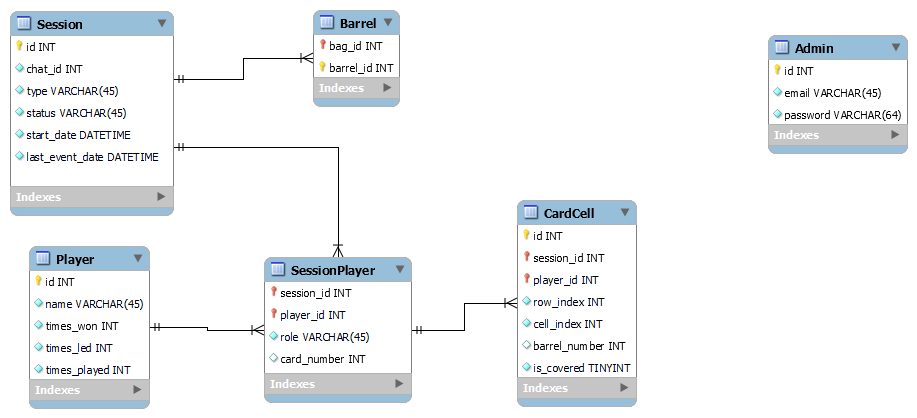
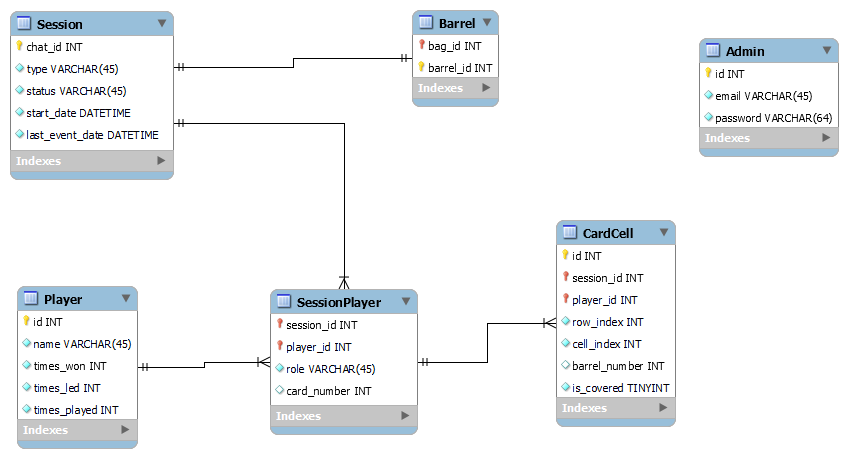
Lil change in DB; added get_chat_user in vk_api, accessor (can start session, create user and add lead)

diff --git a/app/store/russian_loto/accessor.py b/app/store/russian_loto/accessor.py
@@ -1,0 +1,95 @@
+from datetime import datetime
+from typing import Optional, TYPE_CHECKING
+
+from sqlalchemy import select, literal_column, ChunkedIteratorResult
+from sqlalchemy.dialects.mysql import insert
+from sqlalchemy.exc import IntegrityError
+from sqlalchemy.sql.functions import func
+
+from app.russian_loto.models import *
+from app.base.base_accessor import BaseAccessor
+
+if TYPE_CHECKING:
+    from app.web.app import Application
+
+
+# TODO: test this
+class RussianLotoAccessor(BaseAccessor):
+    async def create_new_session(self, chat_id: int, game_type: str) -> (Optional[int], str):
+        start_date = datetime.now()
+        type_ = "short" if game_type == "2" else "simple"
+        query_add_session = insert(GameSessionModel).values(
+            chat_id=chat_id, type=type_, status="started", start_date=start_date, last_event_date=start_date
+        )
+
+        async with self.app.database.session() as add_session:
+            try:
+                await add_session.execute(query_add_session)
+                await add_session.commit()
+                session_id = chat_id
+                msg = "Игра начата! Чтобы участвовать, отправьте \"+\"."
+            except IntegrityError as e:
+                session_id = None
+                msg = "Игра уже была начата. Чтобы начать новую игру, необходимо завершить текущую."
+                self.logger.exception(msg, exc_info=e)
+                await add_session.rollback()
+        return session_id, msg
+
+    async def create_player_profile(self, chat_id: int, player_id: int):
+        player_data = await self.app.store.vk_api.get_chat_user(chat_id, player_id)
+        query_add_player = insert(PlayerModel).values(
+            id=player_data["id"], name=" ".join([player_data["first_name"], player_data["last_name"]]),
+            times_won=0, times_led=0, times_played=0
+        )
+
+        async with self.app.database.session() as add_session:
+            await add_session.execute(query_add_player)
+            await add_session.commit()
+
+    async def add_lead_to_session(self, session_id: int, player_id: int):
+        role = "lead"
+        card_number = None
+        query_add_lead = insert(SessionPlayerModel).values(
+            session_id=session_id, player_id=player_id, role=role, card_number=card_number
+        )
+
+        async with self.app.database.session() as add_session:
+            try:
+                await add_session.execute(query_add_lead)
+                await add_session.commit()
+                return
+            except IntegrityError as e:
+                self.logger.exception("Creating new player", exc_info=e)
+                await add_session.rollback()
+
+        await self.create_player_profile(session_id, player_id)
+        async with self.app.database.session() as new_add_session:
+            await new_add_session.execute(query_add_lead)
+            await new_add_session.commit()
+
+    # insert into sessionplayer values ( 224, 123, "lead", null);
+    # insert into sessionplayer values ( 224, 123, "player", card_number) on duplicate key
+    # update role = if(role = "lead", "leadplayer", sessionplayer.role);
+    async def add_player_to_session(self, session_id: int, player_id: int, card_number: int):
+        role = "player"
+        query_add_player = insert(SessionPlayerModel).values(
+            session_id=session_id, player_id=player_id, role=role, card_number=card_number
+        ).on_duplicate_key_update(role=func.IF(
+            SessionPlayerModel.role == "lead", "leadplayer", SessionPlayerModel.role
+        ))
+
+        async with self.app.database.session() as add_session:
+            try:
+                await add_session.execute(query_add_player)
+                await add_session.commit()
+            except IntegrityError as e:
+                self.logger.exception("Creating new player", exc_info=e)
+                await self.create_player_profile(session_id, player_id)
+                await add_session.execute(query_add_player)
+                await add_session.commit()
+
+    async def get_random_free_card(self, chat_id):
+        pass
+
+    async def get_session_by_chat_id(self, chat_id):
+        pass

diff --git a/app/store/bot/manager.py b/app/store/bot/manager.py
@@ -26,15 +26,16 @@ class BotManager:
                     pass
 
     async def handle_new_message(self, update: Update):
-        greetings = int(not(re.fullmatch(f" *{self.BOT_MENTION}? *Привет! *", update.object.body) is None))
+        greetings = int(not(re.fullmatch(f"({self.BOT_MENTION} )?Привет! *", update.object.body) is None))
         start_loto = int(not(
-            re.fullmatch(f" *{self.BOT_MENTION}? *(начать) *(лото) *(!)? *", update.object.body.lower()) is None
+            re.fullmatch(f"({self.BOT_MENTION} )?(начать) (лото)( [1|2])? *(!)? *", update.object.body.lower()) is None
         )) << 1
         join_loto = int(not(re.fullmatch(f" *\+ *", update.object.body) is None)) << 2
         stop_loto = int(not(
-            re.fullmatch(f" *{self.BOT_MENTION}? *(стоп) *(лото) *(!)? *", update.object.body.lower()) is None
+            re.fullmatch(f"({self.BOT_MENTION} )?(стоп) (лото) *(!)? *", update.object.body.lower()) is None
         )) << 3
         command_flags = stop_loto | join_loto | start_loto | greetings
+        print(command_flags)
 
         match command_flags:
             case Commands.greetings.value:
@@ -42,7 +43,10 @@ class BotManager:
                     Message(user_id=update.object.user_id, text="Привет!"), update.object.peer_id
                 )
             case Commands.start_loto.value:
-                pass
+                lead_id = update.object.user_id
+                peer_id = update.object.peer_id
+                game_type = re.sub("\D", "", update.object.body)
+                await self.russian_loto.start_session(lead_id, peer_id, game_type)
             case Commands.join_loto.value:
                 pass
             case Commands.stop_loto.value:
@@ -55,46 +59,24 @@ class RussianLoto:
     def __init__(self, app: "Application"):
         self.app = app
         self.logger = getLogger("Russian Loto")
-        self.fsm_state = FSMState.started
 
-    async def fsm_transition(self):
-        match self.fsm_state:
-            case FSMState.started:
-                pass
-            case FSMState.adding_players:
-                pass
-            case FSMState.dealing_cards:
-                pass
-            case FSMState.filling_bag:
-                pass
-            case FSMState.handling_moves:
-                pass
-            case FSMState.closed:
-                pass
+    async def start_session(self, lead_id, peer_id, game_type):
+        session_id, response = await self.app.store.loto_games.create_new_session(peer_id, game_type)
+        print(session_id)
+        print(response)
+        await self.app.store.loto_games.add_lead_to_session(session_id, lead_id)
 
-    async def _start_session(self):
+    async def add_players(self):
         pass
 
-    async def _add_players(self):
+    async def fill_bag(self):
         pass
 
-    async def _fill_bag(self):
+    async def lead_move(self):
         pass
 
-    async def _lead_move(self):
+    async def close_session(self):
         pass
-
-    async def _close_session(self):
-        pass
-
-
-class FSMState(enum.Enum):
-    started = 0
-    adding_players = 1
-    dealing_cards = 2
-    filling_bag = 3
-    handling_moves = 4
-    closed = 5
 
 
 class Commands(enum.Enum):
@@ -102,4 +84,3 @@ class Commands(enum.Enum):
     start_loto = 0b0010
     join_loto = 0b0100
     stop_loto = 0b1000
-

diff --git a/app/russian_loto/models.py b/app/russian_loto/models.py
@@ -16,7 +16,6 @@ from sqlalchemy.orm import relationship
 
 @dataclass
 class GameSession:
-    id: int
     chat_id: int
     start_date: datetime
     last_event_date: datetime
@@ -60,8 +59,7 @@ class CardCell:
 
 class GameSessionModel(db):
     __tablename__ = "Session"
-    id = Column(Integer, primary_key=True, autoincrement=True)
-    chat_id = Column(Integer, nullable=False, unique=True)
+    chat_id = Column(Integer, primary_key=True)
     type = Column(VARCHAR(45), nullable=False, default="simple")
     status = Column(VARCHAR(45), nullable=False, default="started")
     start_date = Column(DATETIME, nullable=False)
@@ -70,8 +68,8 @@ class GameSessionModel(db):
     session_player = relationship("SessionPlayerModel")
 
     def __repr__(self) -> str:
-        return f"<GameSessionModel(id='{self.id}', chat_id='{self.chat_id}', type='{self.type}', " \
-               f"status='{self.status}', start_date='{self.start_date}', last_event_date='{self.last_event_date}')>"
+        return f"<GameSessionModel(chat_id='{self.chat_id}', type='{self.type}', status='{self.status}', " \
+               f"start_date='{self.start_date}', last_event_date='{self.last_event_date}')>"
 
 
 class PlayerModel(db):
@@ -90,7 +88,7 @@ class PlayerModel(db):
 
 class BarrelModel(db):
     __tablename__ = "Barrel"
-    bag_id = Column(Integer, ForeignKey("Session.id", ondelete="CASCADE"), primary_key=True)
+    bag_id = Column(Integer, ForeignKey("Session.chat_id", ondelete="CASCADE"), primary_key=True)
     barrel_id = Column(Integer, primary_key=True)
 
     def __repr__(self) -> str:
@@ -99,7 +97,7 @@ class BarrelModel(db):
 
 class SessionPlayerModel(db):
     __tablename__ = "SessionPlayer"
-    session_id = Column(Integer, ForeignKey("Session.id", ondelete="CASCADE"), primary_key=True)
+    session_id = Column(Integer, ForeignKey("Session.chat_id", ondelete="CASCADE"), primary_key=True)
     player_id = Column(Integer, ForeignKey("Player.id", ondelete="CASCADE"), primary_key=True)
     role = Column(VARCHAR(45), nullable=False, default="lead")
     card_number = Column(Integer, nullable=True)

diff --git a/alembic/versions/5440d471787c_create_admin_and_russian_loto_tables.py b/alembic/versions/5440d471787c_create_admin_and_russian_loto_tables.py
@@ -1,8 +1,8 @@
-"""Added admin table and tables for Russian Loto
+"""Create admin and Russian Loto tables
 
-Revision ID: 25bdd9acb548
+Revision ID: 5440d471787c
 Revises: 
-Create Date: 2023-06-15 18:50:52.142652
+Create Date: 2023-06-16 22:21:06.357860
 
 """
 from alembic import op
@@ -10,7 +10,7 @@ import sqlalchemy as sa
 
 
 # revision identifiers, used by Alembic.
-revision = '25bdd9acb548'
+revision = '5440d471787c'
 down_revision = None
 branch_labels = None
 depends_on = None
@@ -34,19 +34,17 @@ def upgrade() -> None:
     sa.PrimaryKeyConstraint('id')
     )
     op.create_table('Session',
-    sa.Column('id', sa.Integer(), autoincrement=True, nullable=False),
     sa.Column('chat_id', sa.Integer(), nullable=False),
     sa.Column('type', sa.VARCHAR(length=45), nullable=False),
     sa.Column('status', sa.VARCHAR(length=45), nullable=False),
     sa.Column('start_date', sa.DATETIME(), nullable=False),
     sa.Column('last_event_date', sa.DATETIME(), nullable=False),
-    sa.PrimaryKeyConstraint('id'),
-    sa.UniqueConstraint('chat_id')
+    sa.PrimaryKeyConstraint('chat_id')
     )
     op.create_table('Barrel',
     sa.Column('bag_id', sa.Integer(), nullable=False),
     sa.Column('barrel_id', sa.Integer(), nullable=False),
-    sa.ForeignKeyConstraint(['bag_id'], ['Session.id'], ondelete='CASCADE'),
+    sa.ForeignKeyConstraint(['bag_id'], ['Session.chat_id'], ondelete='CASCADE'),
     sa.PrimaryKeyConstraint('bag_id', 'barrel_id')
     )
     op.create_table('SessionPlayer',
@@ -55,7 +53,7 @@ def upgrade() -> None:
     sa.Column('role', sa.VARCHAR(length=45), nullable=False),
     sa.Column('card_number', sa.Integer(), nullable=True),
     sa.ForeignKeyConstraint(['player_id'], ['Player.id'], ondelete='CASCADE'),
-    sa.ForeignKeyConstraint(['session_id'], ['Session.id'], ondelete='CASCADE'),
+    sa.ForeignKeyConstraint(['session_id'], ['Session.chat_id'], ondelete='CASCADE'),
     sa.PrimaryKeyConstraint('session_id', 'player_id')
     )
     op.create_table('CardCell',

diff --git a/app/store/vk_api/accessor.py b/app/store/vk_api/accessor.py
@@ -112,6 +112,27 @@ class VkApiAccessor(BaseAccessor):
             data = await resp.json()
             self.logger.info(data)
 
+    async def get_chat_user(self, chat_id: int, user_id: int) -> dict[str, int | str]:
+        async with self.session.get(
+            self._build_query(
+                API_PATH,
+                "messages.getConversationMembers",
+                params={
+                    "access_token": self.app.config.bot.token,
+                    "peer_id": chat_id
+                }
+            )
+        ) as resp:
+            data = (await resp.json())["response"]
+            self.logger.info(data)
+            profiles = [
+                {"id": profile["id"], "first_name": profile["first_name"], "last_name": profile["last_name"]}
+                for profile in data["profiles"]
+            ]
+            user = list(filter(lambda profile: (profile["id"] == user_id), profiles))[0]
+            print(user)
+            return user
+
 
 class VkApiFail(enum.Enum):
     key_timeout = 2

diff --git a/app/store/__init__.py b/app/store/__init__.py
@@ -10,9 +10,11 @@ class Store:
     def __init__(self, app: "Application"):
         from app.store.bot.manager import BotManager
         from app.store.admin.accessor import AdminAccessor
+        from app.store.russian_loto.accessor import RussianLotoAccessor
         from app.store.vk_api.accessor import VkApiAccessor
 
         self.admins = AdminAccessor(app)
+        self.loto_games = RussianLotoAccessor(app)
         self.vk_api = VkApiAccessor(app)
         self.bots_manager = BotManager(app)
 
